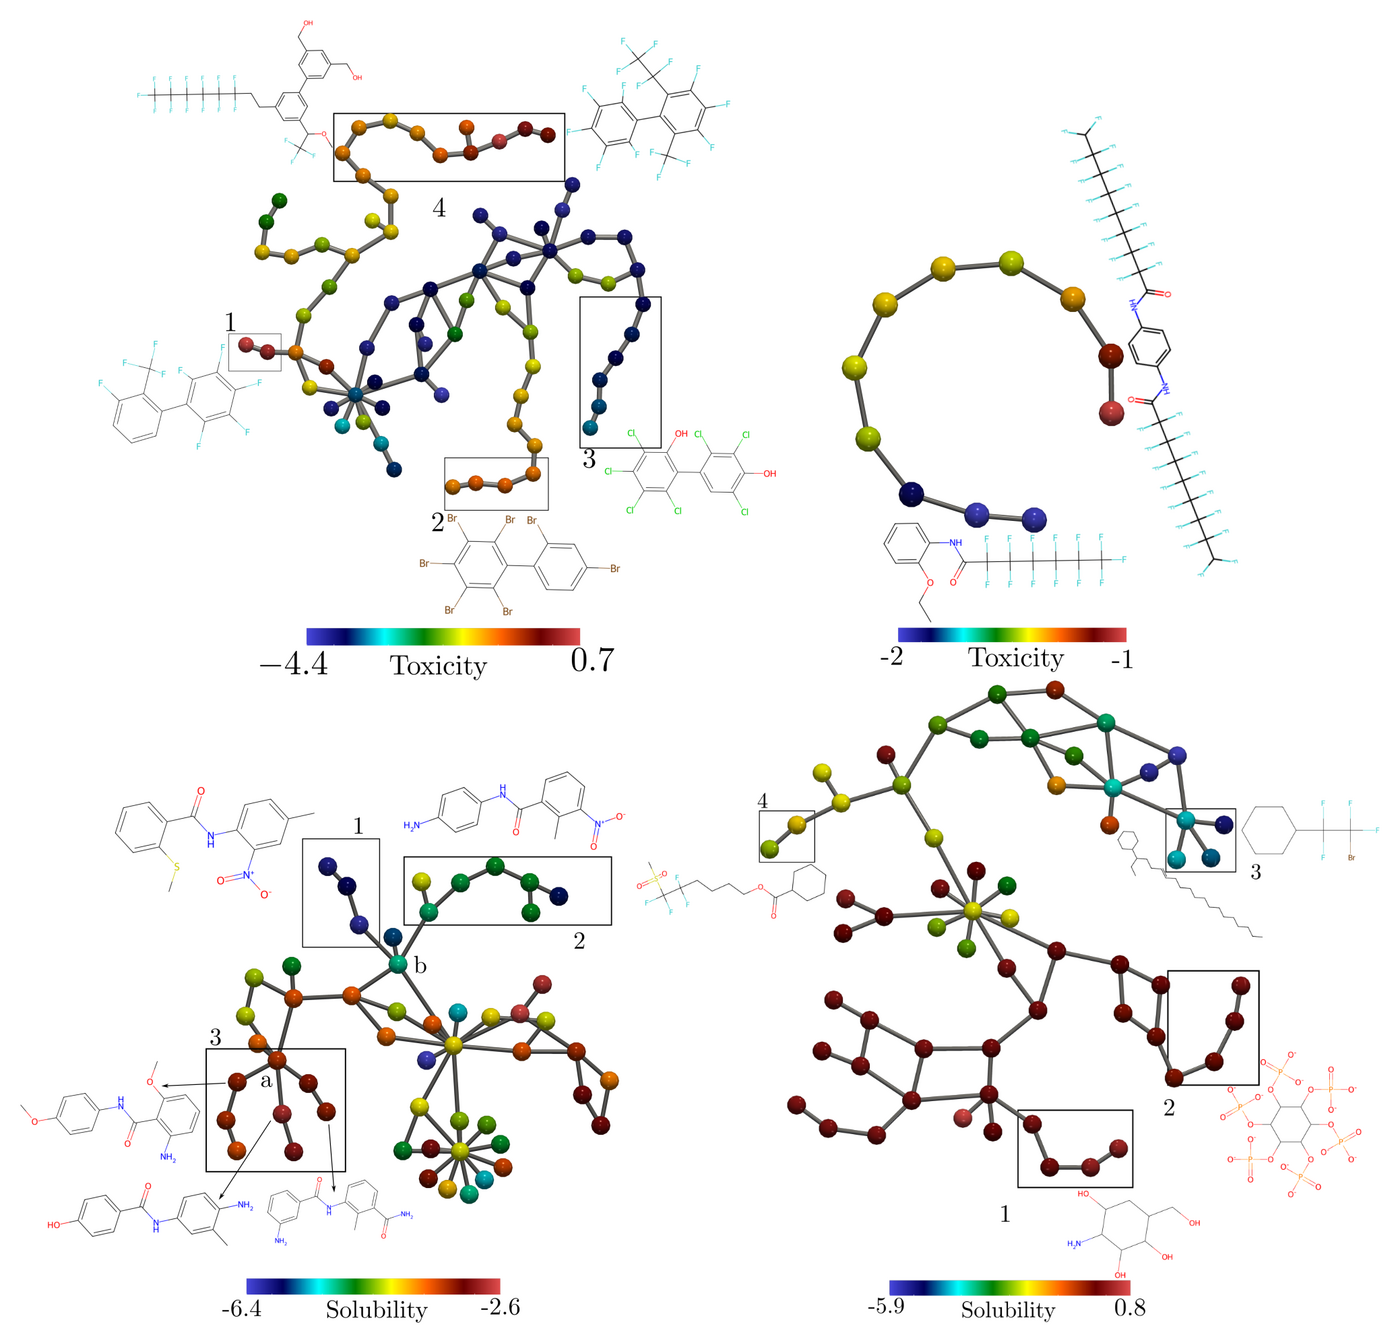
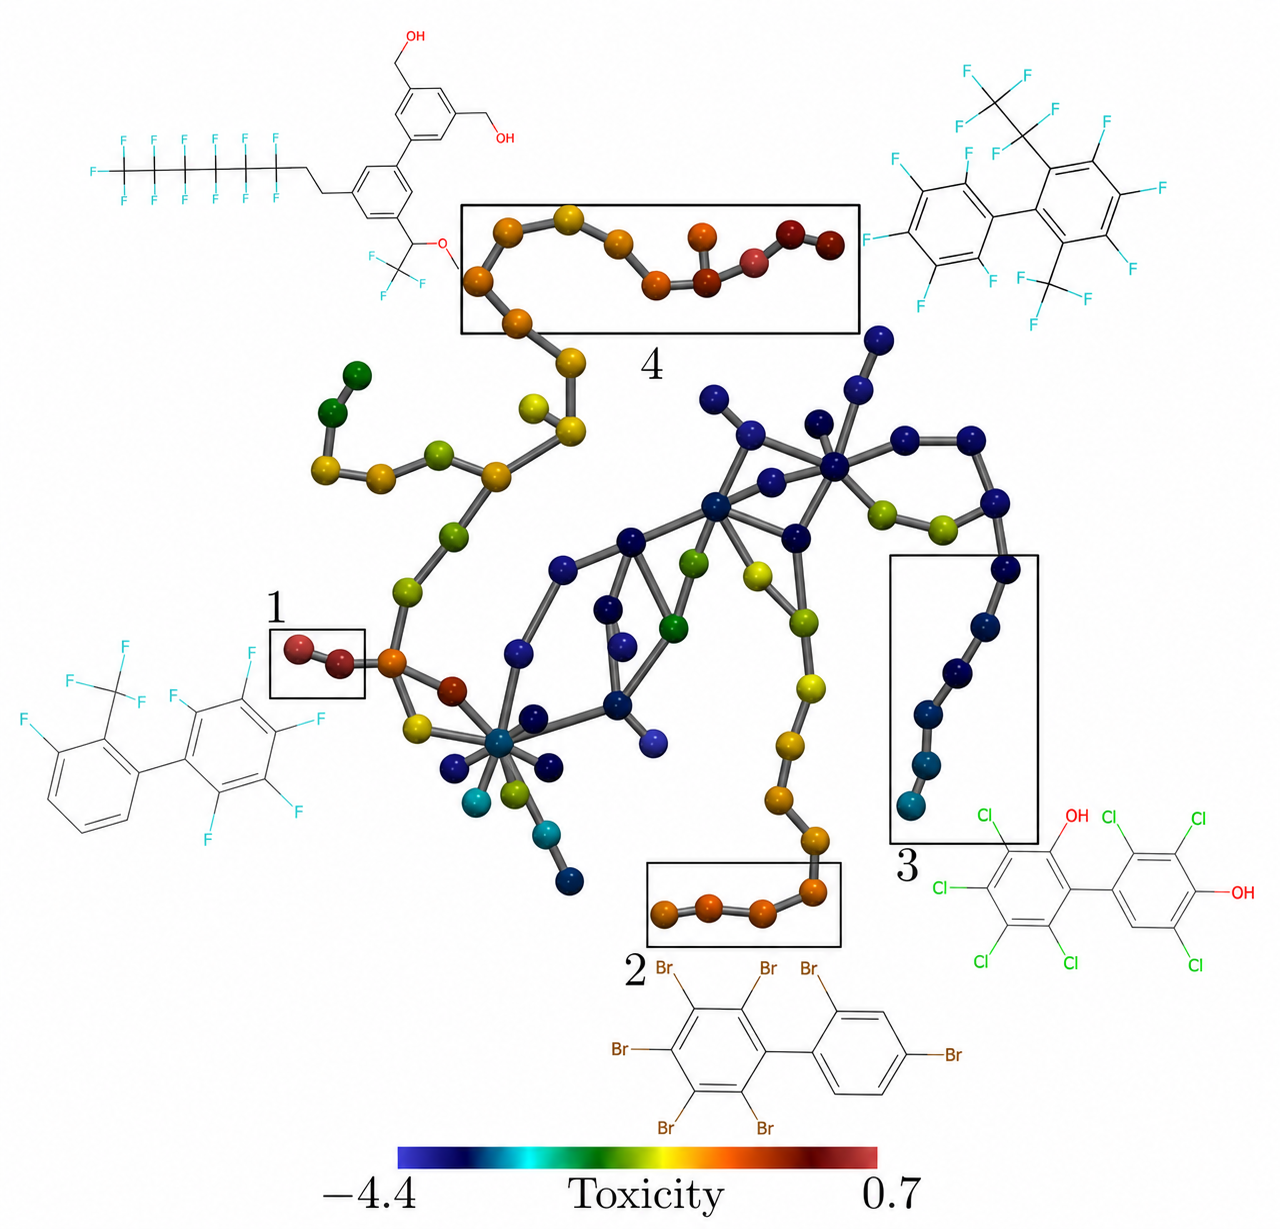
Update portfolio content and remove unused assets

diff --git a/_pages/about.md b/_pages/about.md
@@ -26,22 +26,28 @@ I am interested in applying and extending these methods to challenging real-worl
   {% assign sorted_projects = site.projects | sort: "importance" | reverse %}
   {% for project in sorted_projects %}
     <div class="card mt-3 p-3">
-      <h3 class="card-title">{{ project.title }}</h3>
+      <div class="row align-items-start">
+        {% if project.img %}
+          <div class="col-md-4 mb-3 mb-md-0">
+            <img
+              src="{{ project.img | prepend: '/assets/img/' | relative_url }}"
+              alt="Visualization from {{ project.title }}"
+              style="width: 100%; height: auto; object-fit: contain;"
+            >
+          </div>
+        {% endif %}
 
-      {% if project.img %}
-        <img
-          src="{{ project.img | prepend: '/assets/img/' | relative_url }}"
-          alt="{{ project.title }}"
-          style="max-width: 100%; height: auto; margin-bottom: 1rem;"
-        >
-      {% endif %}
+        <div class="{% if project.img %}col-md-8{% else %}col-12{% endif %}">
+          <h3 class="card-title">{{ project.title }}</h3>
 
-      {% if project.description %}
-        <p>{{ project.description }}</p>
-      {% endif %}
+          {% if project.description %}
+            <p>{{ project.description }}</p>
+          {% endif %}
 
-      <div class="card-text">
-        {{ project.content }}
+          <div class="card-text">
+            {{ project.content }}
+          </div>
+        </div>
       </div>
     </div>
   {% endfor %}

diff --git a/_projects/project-1.md b/_projects/project-1.md
@@ -1,5 +1,5 @@
 ---
-title: Mapping Chemical Space
+title: "Mapping Chemical Space: Topological Data Analysis of Chemical Latent Space with Mapper"
 description: Visual exploration of chemical latent spaces through topological data analysis and deep learning.
 img: chemical-mapper.png
 importance: 3
